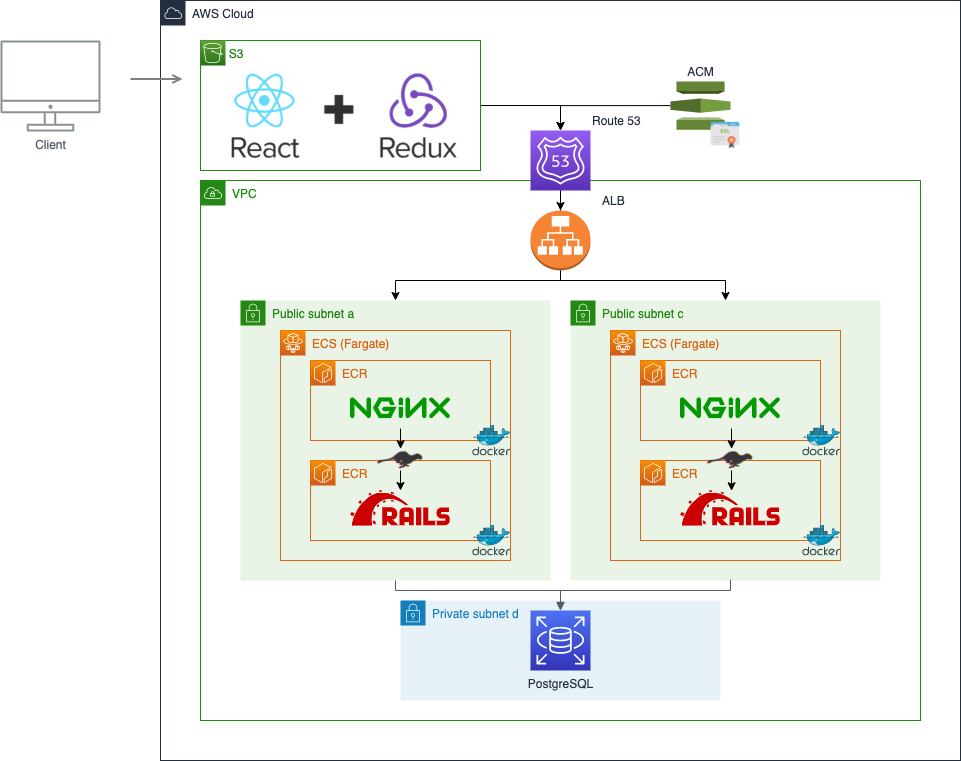
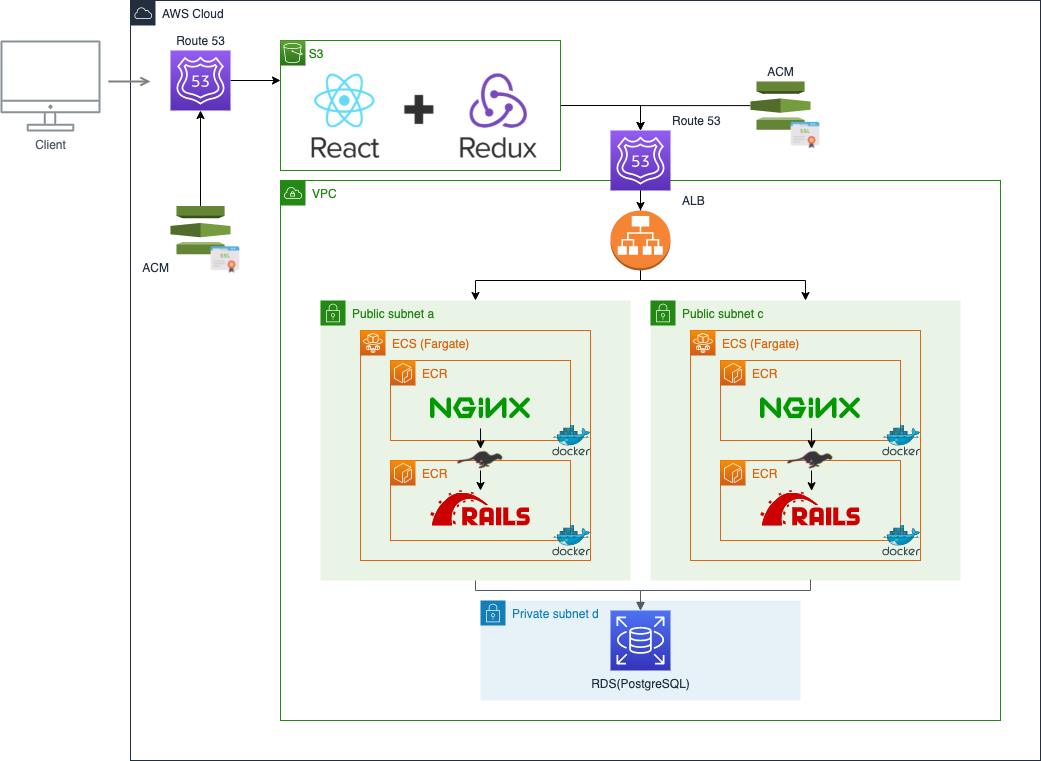
tech infoの編集

diff --git a/frontend/src/components/pages/Tech.tsx b/frontend/src/components/pages/Tech.tsx
@@ -1,5 +1,11 @@
-import Infra from "../../image/infra.png"
-import ER from "../../image/ER.png"
+import Infra from "../../image/infra.png";
+import ER from "../../image/ER.png";
+import Todo from "../../image/todo_top.png";
+import BulletinBoard from "../../image/bulletinboard_top.png";
+import RPC from "../../image/rakutenpricechecker_top.png";
+import ProtoMaster from "../../image/protomaster_top.png";
+import { Card, Avatar, CardContent, CardHeader, CardMedia, Typography, Link, CardActions } from "@material-ui/core";
+import { Button } from "../atoms";
 
 const Tech = () => {
     
@@ -67,10 +73,10 @@ const Tech = () => {
                         <h4>0.2.1 自分自身で使いたいと思えるアプリケーションを作成する。</h4>
                         <p>
                             　WEBエンジニアとして働くに当たって、Webに関する技術を磨くことは当然のことですが
-                            それ以前に、世の中の役に立つ、意味のあるサービスを提供するということが根幹にあると考えています。
+                            それ以前に、世の中の役に立つ、意味のあるサービスを提供しなければならないということが根幹にあると考えています。<br />
                             　そこで、まずは「意味のあるサービス」の中でもハードルが低そうな「自分自身が抱えてる問題を解決する
-                            アプリケーション」を作成しようと考えました。
-                            　家計簿として日々の収支情報をまとめつつ、自分の目標に沿って貯金を手助けしてくれるような
+                            アプリケーション」を作成しようと考え、家計簿として日々の収支情報をまとめつつ、自分の目標に沿って貯金を手助けしてくれるような
+                            アプリケーションを開発しようと決めました。
                         </p>
                         <h4>0.2.2 完全独学でのデプロイを目指す。</h4>
                         <p>
@@ -88,7 +94,12 @@ const Tech = () => {
                         </p>
                         <h4>0.2.3 実務の現場で実際に使用されている技術を使用する。</h4>
                         <p>
-                            　
+                            　完全未経験での転職活動には技術力を照明するためのポートフォリオを作成することは必須ですが
+                            「使用する技術の選定」も重要になってくると考えました。<br />
+                            　モダンで実務でも広く扱われている技術を学習することで転職活動をする際に選択肢が広がる上に、転職後も
+                            よりスムーズに実務に入れると思ったからです。加えて、0.2.2でも少し説明した通り、日々の自己研鑽を続け、
+                            最新の技術を学び取り入れていく姿勢こそ、エンジニアにとって一番重要な要素だと考えているので時間をかけてでも
+                            モダンな技術を取り入れることは必要だと自分の中で結論づけました。
                         </p>
                         
                     </div>
@@ -96,7 +107,13 @@ const Tech = () => {
                 <div>
                     <h3>0.3 使用技術について</h3>
                     <div>
-                        <p></p>
+                        <p>　使用技術に関しましてはリストでまとめた通りとなります。</p>
+                        <ul>
+                            <li>フロントエンド：React + TypeScript + Redux</li>
+                            <li>バックエンド：Ruby on Rails API</li>
+                            <li>インフラ：AWS(S3 + ECS + ECR), Docker/docker-compose</li>
+                        </ul>
+                        <p>　次の章から、それぞれの使用技術に関しましてより詳しく説明したいと思います。</p>
                     </div>
                 </div>
             </section>
@@ -105,24 +122,98 @@ const Tech = () => {
                     <h2>1. アプリケーションの設計開発について</h2>
                 </div>
                 <div>
-                    <h3>1.1 バックエンドの開発について</h3>
+                    <h3>1.1 フロントエンドの開発について</h3>
                     <div>
-                        <p></p>
-                        <img src={ER} alt="er" />
+                        <p>
+                            　フロントエンドの実装にはReact + TypeScript + Reduxを使用しました。
+                            使用したライブラリは主に以下の通りとなります。
+                        </p>
+                        <ul>
+                            <h3>UI実装周り</h3>
+                            <li>material-ui：　UIデザイン関連のコンポーネントを提供しているライブラリ。UIデザイン周りの実装で非常に役立ちました。</li>
+                            <li>react-chartjs-2：　円グラフや棒グラフ、折れ線グラフといったチャートを簡単に作成できるライブラリ。収支情報のまとめをグラフ化するために用いました。</li>
+                            <li>react-calendar：　カレンダーを簡単に作成することができるライブラリ。</li>
+
+                            <h3>Redux周り</h3>
+                            <li>redux：　stateを一元管理するためのライブラリ。開発の進行に伴って、所謂propsのバケツリレーが起きてしまいデータの管理の複雑性が増してしまったため導入しました。</li>
+                            <li>redux-thunk：　Reduxで非同期処理を行えるようにするためのミドルウェア。</li>
+                            <li>reselect：　stateの中から任意のパラメータを受け取るためのライブラリ。</li>
+
+                            <h3>Router周り</h3>
+                            <li>connected-react-router：　Reduxのstoreでrouterの情報を管理できるようにするライブラリ。historyの管理や画面遷移の実装のため使用しました。</li>
+                            <li>axios：　ブラウザからHTTPリクエストを送信するためのライブラリ。フロントエンド側とAPI側で通信を行うために使用しました。</li>
+                            <li>react-router： URLとコンポーネントを紐付け、SPA(シングルページアプリケーション)としてページの更新を行うライブラリ。</li>
+                        </ul>
+                        <p>
+                            　アプリ開発当初はフロントエンドとバックエンドで明確に分けることはせずERB、Bootstrap、JQueryを使用して
+                            全てRails内で完結させていました。しかし、現状多くのプロジェクトではフロントエンドとバックエンドで分けて開発が
+                            行われているため、RailsはAPIモードを使用し、フロントエンドは別にJS系のライブラリで実装することと
+                            しました。<br />
+                            　使用するライブラリに関しては、「Vue.js」「Angular」「React」などの選択肢がありましたが、転職サイトなどで
+                            見る限り採用数がもっとも多そうな印象を受けた「React」を使用することとしました。
+                        </p>
                     </div>
                 </div>
                 <div>
-                    <h3>1.2 フロントエンドの開発について</h3>
+                    <h3>1.2 バックエンドの開発について</h3>
                     <div>
-                        <p></p>
-                        
+                        <p>
+                            　バックエンドの実装にはRuby on RailsのAPIモードを使用しました。
+                            使用したGemに関しては主に以下の通りとなります。
+                        </p>
+                        <ul>
+                            <li>Rspec：　</li>
+                            <li>Factory Bot：　</li>
+                            <li>rack-cors：　</li>
+                            <li>puma：　</li>
+                        </ul>
+                        <p>
+                            　データベース設計に関しましては以下のER図の通りとなります。
+                            また、ユーザー情報に関しては、Auth0を使用することでRails内では管理しないようにしました。
+                        </p>
+                        <div style={{textAlign: "center"}}>
+                            <img src={ER} alt="er" style={{width: "90%", maxWidth: "1000px"}}/>
+                        </div>
                     </div>
                 </div>
                 <div>
                     <h3>1.3 インフラ構成について</h3>
                     <div>
-                        <p></p>
-                        <img src={Infra} alt="infra" />
+                        <h4>1.3.1 本番環境</h4>
+                        <p>
+                            　本番環境のデプロイはAWSを用いました。使用したサービスは以下の通りとなります。
+                        </p>
+                        <ul>
+                            <li>Route53</li>
+                            <li>ACM</li>
+                            <li>ALB</li>
+                            <li>S3</li>
+                            <li>ECS</li>
+                            <li>ECR</li>
+                            <li>RDS</li>
+                        </ul>
+                        <div style={{textAlign: "center"}}>
+                            <img src={Infra} alt="infra" style={{width: "90%", maxWidth: "1000px"}} />
+                        </div>
+                        <h4>1.3.2 開発環境</h4>
+                        <p>
+                            　上記の通り、本番環境のデプロイはECSの使用を考えていたので、環境による差異を小さくする目的も兼ねて開発環境は
+                            Docker/docker-composeを利用しコンテナ化しました。サービスの構成については以下の通りとなります。
+                        </p>
+                        <ul>
+                            <li>db: postgreSQL</li>
+                            <li>api: Ruby on Rails</li>
+                            <li>front: React</li>
+                            <li>web: NGINX</li>
+                        </ul>
+                        <p>
+                            　開発環境に関しては、雛形を作成し
+                            <Link href="https://github.com/nobumitsu-1995/rails-nginx-react-docker" target="_blank">
+                                Github
+                            </Link>
+                            にあげているので是非ご覧ください。
+                        </p>
+                        
                     </div>
                 </div>
             </section>
@@ -133,13 +224,131 @@ const Tech = () => {
                 <div>
                     <h3>2.1 今後の実装機能、改善点について</h3>
                     <div>
-                        <p></p>
+                        <p>
+                            　
+                            固定収支の登録を可能とする、デザイン力の強化、CIの導入、検索機能の追加
+                        </p>
                     </div>
                 </div>
                 <div>
                     <h3>2.2 その他の開発アプリについて</h3>
-                    <div>
-                        <p></p>
+                    <div className="cards">
+                        <Card className="card" style={{maxWidth: 270}} >
+                            <CardHeader
+                                avatar={
+                                <Avatar aria-label="recipe" style={{backgroundColor: "#F50057"}}>
+                                    1
+                                </Avatar>
+                                }
+                                title="TODOアプリ"
+                            />
+                            <CardMedia
+                                component="img"
+                                height="194"
+                                image={Todo}
+                                alt="how-to-use1"
+                            />
+                            <CardContent>
+                                <Typography variant="body2" color="textSecondary">
+                                Ruby on Railsを学習した後に初めて1から作成したアプリです。Todoの追加、確認、編集、削除、完了等の操作ができる基本的なCRUDアプリになります。
+                                </Typography>
+                            </CardContent>
+                            <CardActions>
+                                <Link href="https://github.com/nobumitsu-1995/TODOAPP/tree/master/TODOAPP" target="_blank">
+                                    <Button color="inherit" size="small" variant="text">Github</Button>
+                                </Link>
+                                <Link href="https://todo-created-by-masu.herokuapp.com" target="_blank">
+                                    <Button color="inherit" size="small" variant="text">Apprication</Button>
+                                </Link>
+                            </CardActions>
+                        </Card>
+                        <Card className="card" style={{maxWidth: 270}}>
+                            <CardHeader
+                                avatar={
+                                <Avatar aria-label="recipe" style={{backgroundColor: "#F50057"}}>
+                                    2
+                                </Avatar>
+                                }
+                                title="掲示板アプリ"
+                            />
+                            <CardMedia
+                                component="img"
+                                height="194"
+                                image={BulletinBoard}
+                                alt="how-to-use1"
+                            />
+                            <CardContent>
+                                <Typography variant="body2" color="textSecondary">
+                                APIを利用したログイン機能やAJAX処理、N＋１問題の解決方法といったより実践的な技術について学ぶために作成をした掲示板アプリです。ログインをして掲示板に投稿、削除ができ、チャットすることができます。
+                                </Typography>
+                            </CardContent>
+                            <CardActions>
+                                <Link href="https://github.com/nobumitsu-1995/bulletin_board" target="_blank">
+                                    <Button color="inherit" size="small" variant="text">Github</Button>
+                                </Link>
+                                <Link href="https://ajax-bulletin-board.herokuapp.com" target="_blank">
+                                    <Button color="inherit" size="small" variant="text">Apprication</Button>
+                                </Link>
+                            </CardActions>
+                        </Card>
+                        <Card className="card" style={{maxWidth: 270}}>
+                            <CardHeader
+                                avatar={
+                                <Avatar aria-label="recipe" style={{backgroundColor: "#F50057"}}>
+                                    3
+                                </Avatar>
+                                }
+                                title="楽天 PRICE CHECKER"
+                            />
+                            <CardMedia
+                                component="img"
+                                height="194"
+                                image={RPC}
+                                alt="how-to-use1"
+                            />
+                            <CardContent>
+                                <Typography variant="body2" color="textSecondary">
+                                    APIを利用したアプリケーションの開発を学ぶために作成したアプリです。楽天市場に出品されている商品を検索することができ、商品情報を保存することで価格の推移を自動でグラフ化することができます。
+                                </Typography>
+                            </CardContent>
+                            <CardActions>
+                                <Link href="https://github.com/nobumitsu-1995/RakutenPriceChecker" target="_blank">
+                                    <Button color="inherit" size="small" variant="text">Github</Button>
+                                </Link>
+                                <Link href="https://rakutenpricechecker.herokuapp.com" target="_blank">
+                                    <Button color="inherit" size="small" variant="text">Apprication</Button>
+                                </Link>
+                            </CardActions>
+                        </Card>
+                        <Card className="card" style={{maxWidth: 270}}>
+                            <CardHeader
+                                avatar={
+                                <Avatar aria-label="recipe" style={{backgroundColor: "#F50057"}}>
+                                    4
+                                </Avatar>
+                                }
+                                title="試作品情報管理アプリ"
+                            />
+                            <CardMedia
+                                component="img"
+                                height="194"
+                                image={ProtoMaster}
+                                alt="how-to-use1"
+                            />
+                            <CardContent>
+                                <Typography variant="body2" color="textSecondary">
+                                    前職在職中に作成したアプリです。試作品の設計業務上で「試作品のデータを保存、管理することができない」「使用した顔料や半製品のデータを検索できないため適切な材料を調べるのに時間がかかる」といった問題があったので、これを解決するために作成しました。
+                                </Typography>
+                            </CardContent>
+                            <CardActions>
+                                <Link href="https://github.com/nobumitsu-1995/protomaster/tree/master/protomaster" target="_blank">
+                                    <Button color="inherit" size="small" variant="text">Github</Button>
+                                </Link>
+                                <Link href="https://protomaster.herokuapp.com" target="_blank">
+                                    <Button color="inherit" size="small" variant="text">Apprication</Button>
+                                </Link>
+                            </CardActions>
+                        </Card>
                     </div>
                 </div>
             </section>

diff --git a/frontend/src/App.css b/frontend/src/App.css
@@ -163,13 +163,17 @@ body {
   align-content: center;
   justify-content: space-around;
   text-align: left;
-  position: relative;
+  
   max-width: 1600px;
   margin: 0 auto;
   margin-bottom: 25px;
 }
 
-.cards:before {
+.arrow {
+  position: relative;
+}
+
+.arrow:before {
   content: "";
   position: absolute;
   bottom: -30px;
@@ -178,7 +182,7 @@ body {
   border-color: #e8b094;
 }
 
-.cards:after {
+.arrow:after {
   content: "";
   position: absolute;
   bottom: -50px;
@@ -549,7 +553,6 @@ body {
   margin-bottom: 60px;
 }
 
-/* for Desktop */
 @media ( min-width : 640px ){
   .timeline > li {
     overflow: hidden;

diff --git a/frontend/src/components/pages/Home.tsx b/frontend/src/components/pages/Home.tsx
@@ -116,7 +116,7 @@ const Home = () => {
             </section>
             <section className="how-to-use">
                 <h1>SUM APPの使い方</h1>
-                <div className="cards">
+                <div className="cards arrow">
                     <Card className="card">
                         <CardHeader
                             avatar={
